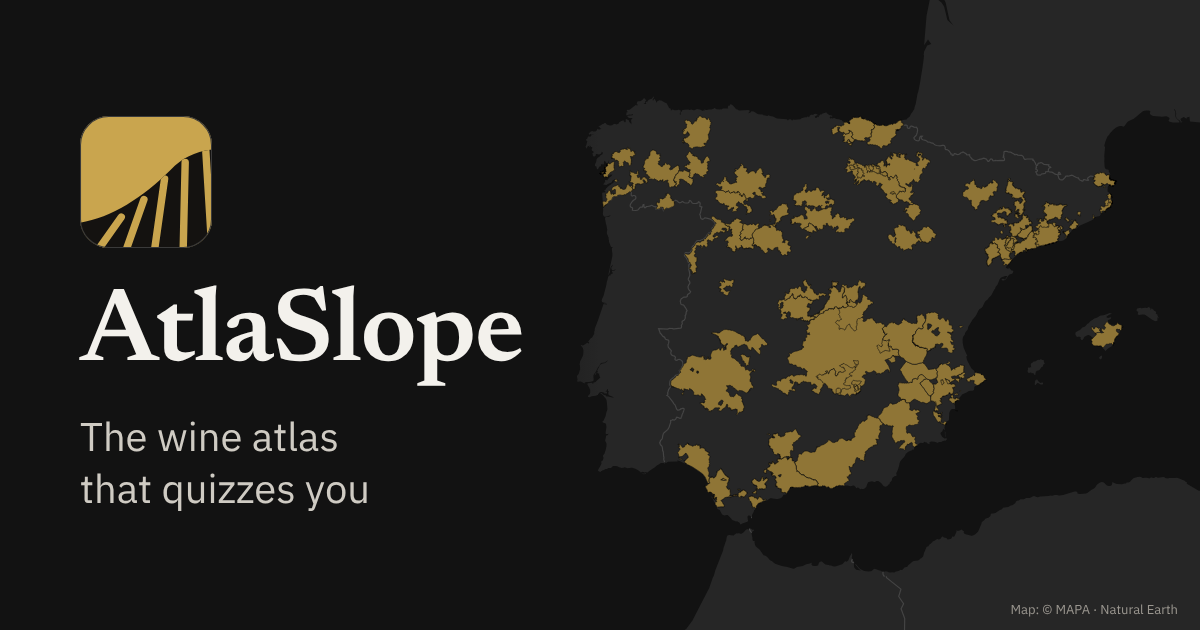
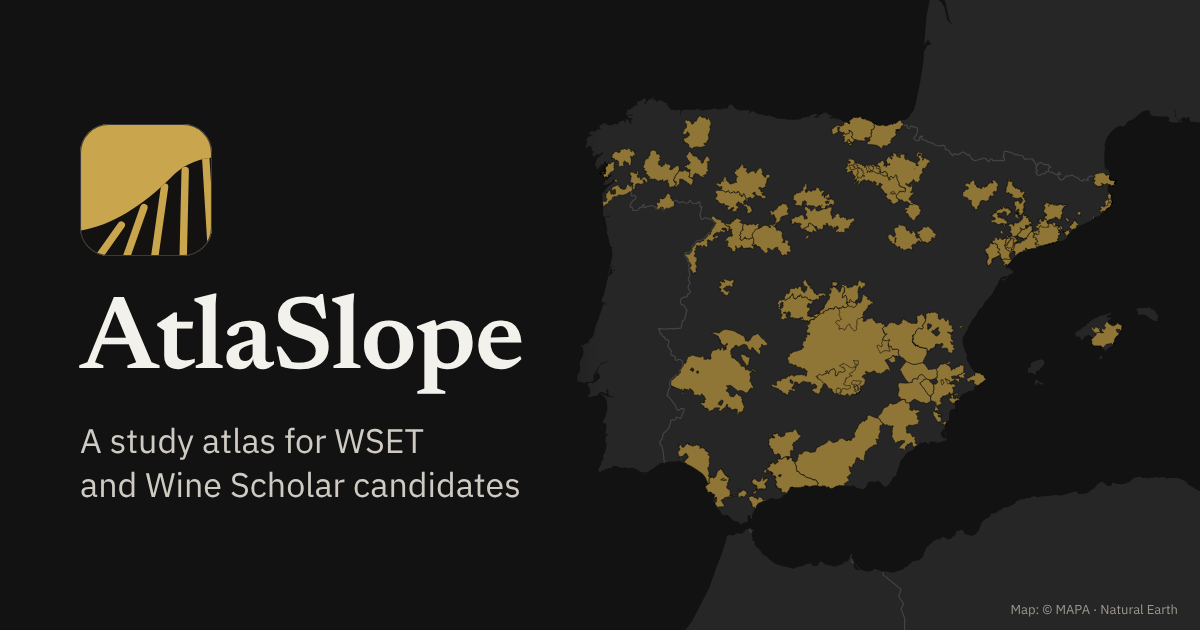
Share card: owner's line 'A study atlas for WSET and Wine Scholar candidates' on the image
Claude-Session: https://claude.ai/code/session_01AK17WvrcZ3QzAR8KuSZiE5

diff --git a/Tools/share/make_share_image.py b/Tools/share/make_share_image.py
@@ -82,7 +82,7 @@ html, body {{ margin: 0; width: {W}px; height: {H}px; overflow: hidden; backgrou
 .map {{ position: absolute; inset: 0; }}
 .text {{ position: absolute; left: 80px; top: 0; bottom: 0; width: 520px; display: flex; flex-direction: column; justify-content: center; }}
 .name {{ font: 600 104px/1 Newsreader, serif; color: {C['name']}; letter-spacing: -1.5px; margin: 36px 0 22px; }}
-.tag {{ font: 400 40px/1.3 'IBM Plex Sans', sans-serif; color: {C['tag']}; }}
+.tag {{ font: 400 34px/1.3 'IBM Plex Sans', sans-serif; color: {C['tag']}; }}
 .credit {{ position: absolute; right: 22px; bottom: 14px; font: 400 13px/1 'IBM Plex Sans', sans-serif; color: {C['muted']}; }}
 </style></head><body>
 <svg class="map" width="{W}" height="{H}" viewBox="0 0 {W} {H}">
@@ -92,7 +92,7 @@ html, body {{ margin: 0; width: {W}px; height: {H}px; overflow: hidden; backgrou
 <rect x="0" y="0" width="600" height="{H}" fill="url(#fade)"/>
 <defs><linearGradient id="fade" x1="0" x2="1"><stop offset="0.78" stop-color="{C['bg']}"/><stop offset="1" stop-color="{C['bg']}" stop-opacity="0"/></linearGradient></defs>
 </svg>
-<div class="text">{logo}<div class="name">AtlaSlope</div><div class="tag">The wine atlas<br>that quizzes you</div></div>
+<div class="text">{logo}<div class="name">AtlaSlope</div><div class="tag">A study atlas for WSET<br>and Wine Scholar candidates</div></div>
 <div class="credit">Map: © MAPA · Natural Earth</div>
 </body></html>"""
 (ROOT / 'Tools/share/share.html').write_text(html)
